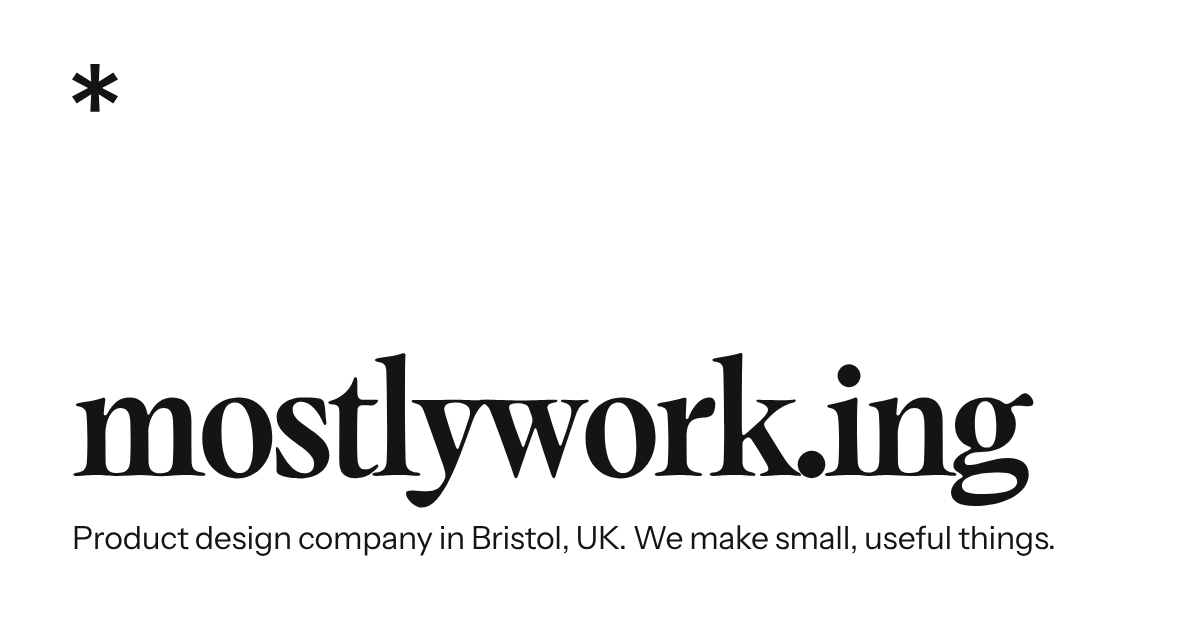
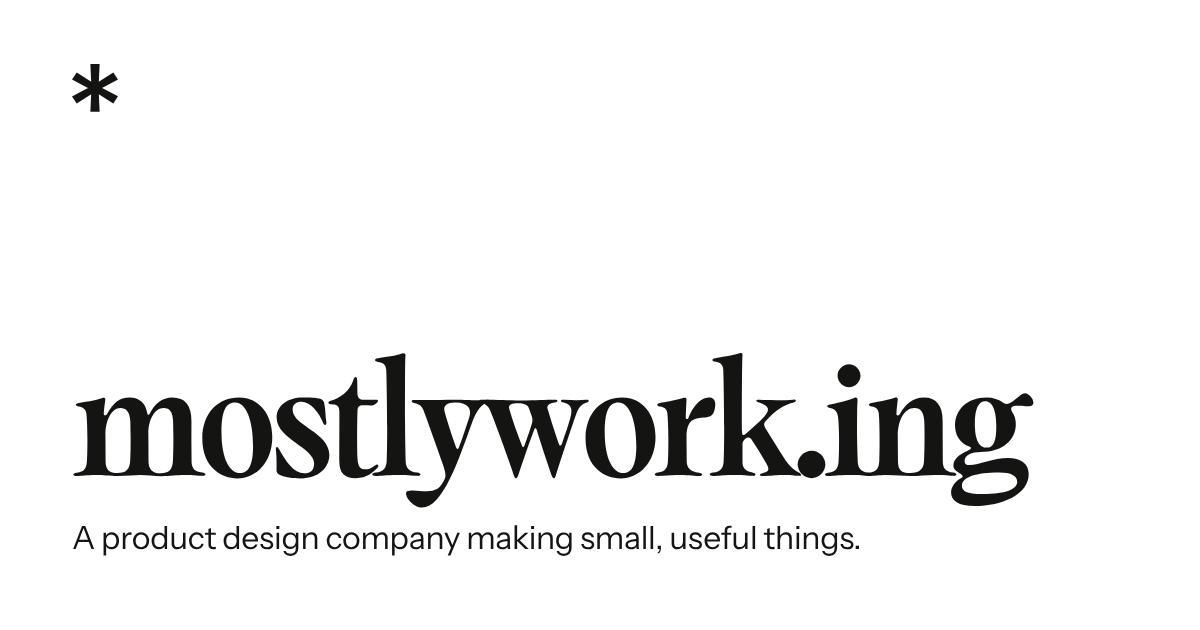
Change the lede to "A product design company making small, useful things."
Also in og:description, og:image:alt and og.png. Being shorter, it now
sits on one line at every width from 768px up; phones wrap it to two.

Claude-Session: https://claude.ai/code/session_017UFRXYQtUMif1BB6ZR5QC6

Changed region(s): [[0.0617, 0.8143, 0.8942, 0.9048]]

diff --git a/index.html b/index.html
@@ -12,11 +12,11 @@
 <meta property="og:url" content="https://mostlywork.ing/">
 <meta property="og:site_name" content="mostlywork.ing">
 <meta property="og:title" content="mostlywork.ing">
-<meta property="og:description" content="Product design company in Bristol, UK. We make small, useful things.">
+<meta property="og:description" content="A product design company making small, useful things.">
 <meta property="og:image" content="https://mostlywork.ing/og.png">
 <meta property="og:image:width" content="1200">
 <meta property="og:image:height" content="630">
-<meta property="og:image:alt" content="mostlywork.ing: Product design company in Bristol, UK. We make small, useful things.">
+<meta property="og:image:alt" content="mostlywork.ing: A product design company making small, useful things.">
 <meta name="twitter:card" content="summary_large_image">
 
 <link rel="icon" href="/favicon.svg" type="image/svg+xml" media="(prefers-color-scheme: light)">
@@ -36,7 +36,7 @@
 <main class="homepage">
   <section class="intro">
     <h1 aria-label="mostlywork.ing">mostly<wbr>work.ing</h1>
-    <p class="lede">Product design company in Bristol, UK. We make small, useful things.</p>
+    <p class="lede">A product design company making small, useful things.</p>
   </section>
 
   <section class="projects" id="projects" aria-labelledby="projects-title">
